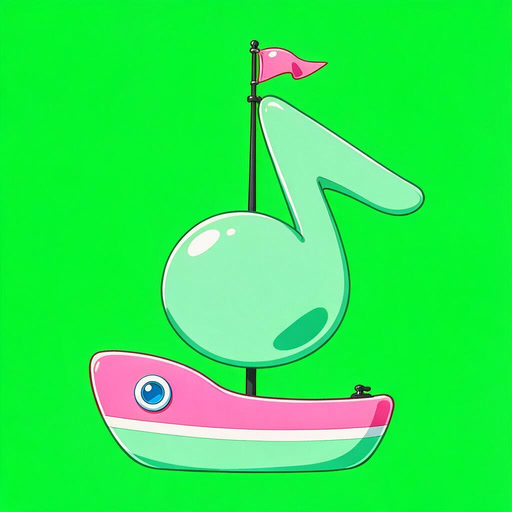
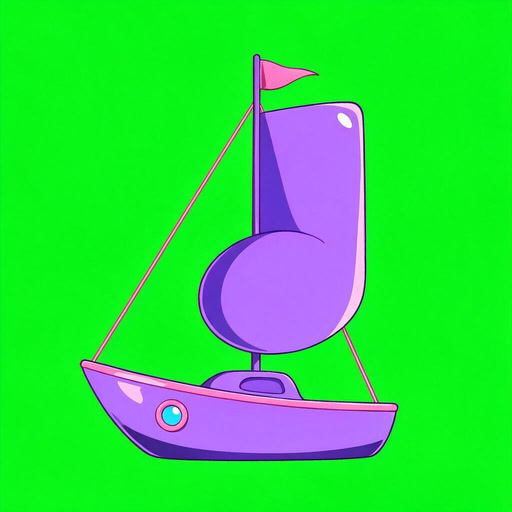
MV art: new pictures [skip ci]

diff --git a/design/mv-art/out/last-run.md b/design/mv-art/out/last-run.md
@@ -1,10 +1,5 @@
-# UI art — 2026-11-24T07:34:38.916Z
+# UI art — 2026-11-24T07:40:19.951Z
 
-Seedream 5.0 Pro / 6枚 / 約43円
+Seedream 5.0 Pro / 1枚 / 約7円
 
-- ✅ home2-bg-saturn-cutea3
-- ✅ home3-bg-mercury
-- ✅ ship3-1
-- ✅ ship3-2
-- ✅ ship3-3
 - ✅ ship3-4
